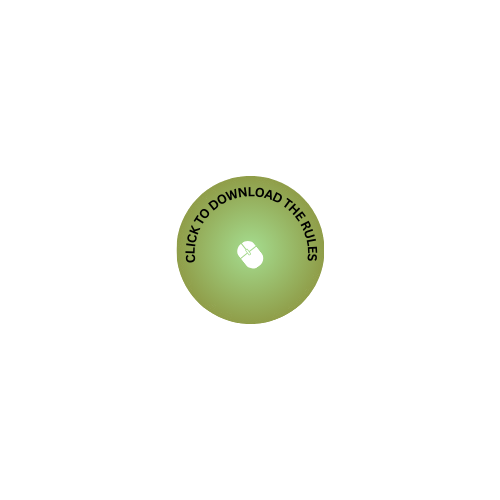
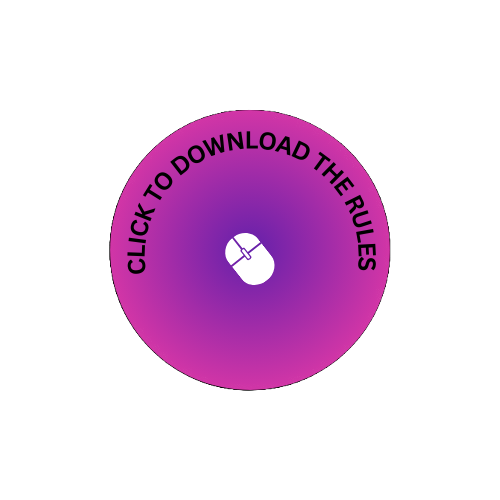
stamps

Changed region(s): [[0.21, 0.21, 0.78, 0.78]]

diff --git a/components/RoboCarousel.jsx b/components/RoboCarousel.jsx
@@ -1344,7 +1344,7 @@ const RoboCarousel = () => {
         className="relative flex-1 flex justify-center items-center"
       >
         <Image
-          src="/2.jpg"
+          src="/tbm.jpg"
           alt="planet-09" width={155} height={155}
           className="w-full lg:h-[610px] h-auto min-h-[210px] object-cover rounded-[40px]"
         />
@@ -1355,7 +1355,7 @@ const RoboCarousel = () => {
         >
           <Image
           onClick={PDFBULL}
-            src="/stamp.png"
+            src="/2.png"
             alt="stamp" width={15} height={15}
             className="w-[155px] h-[155px] object-contain"
           />
